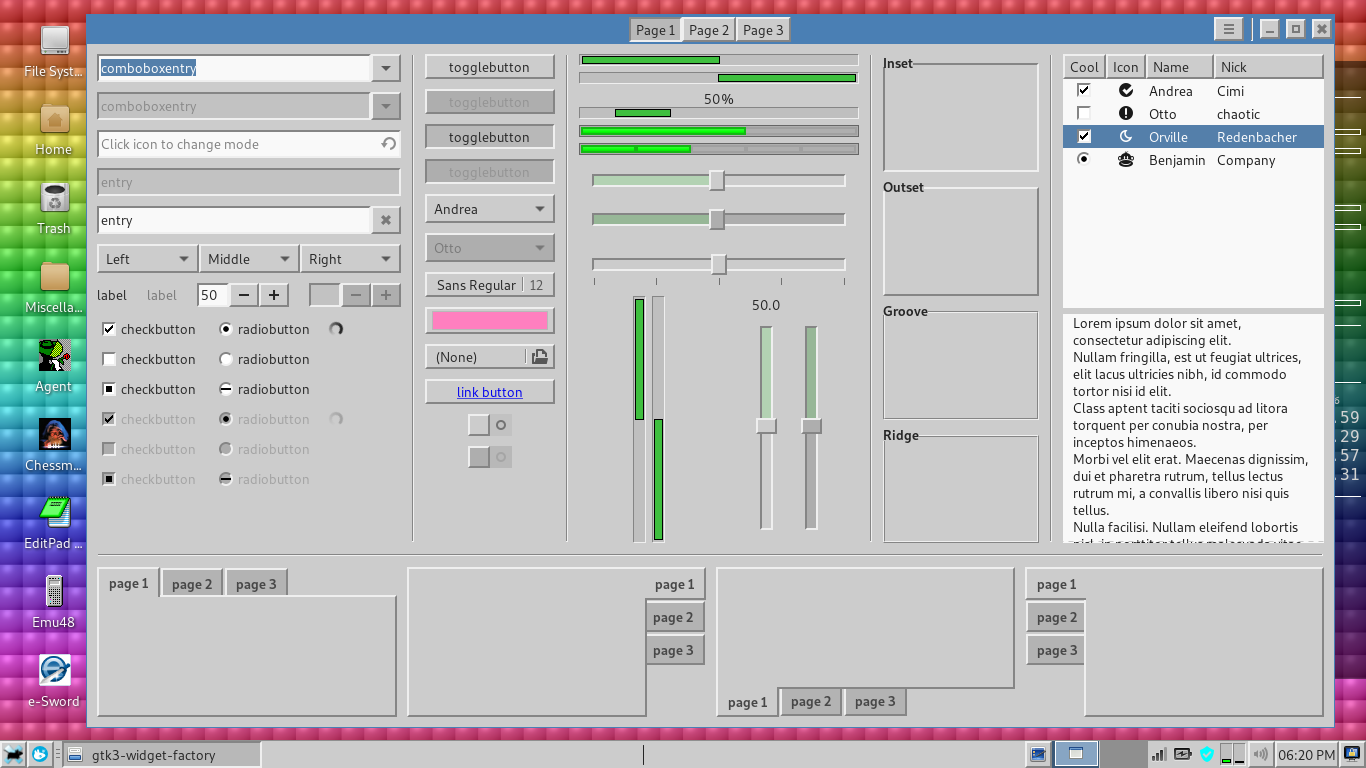
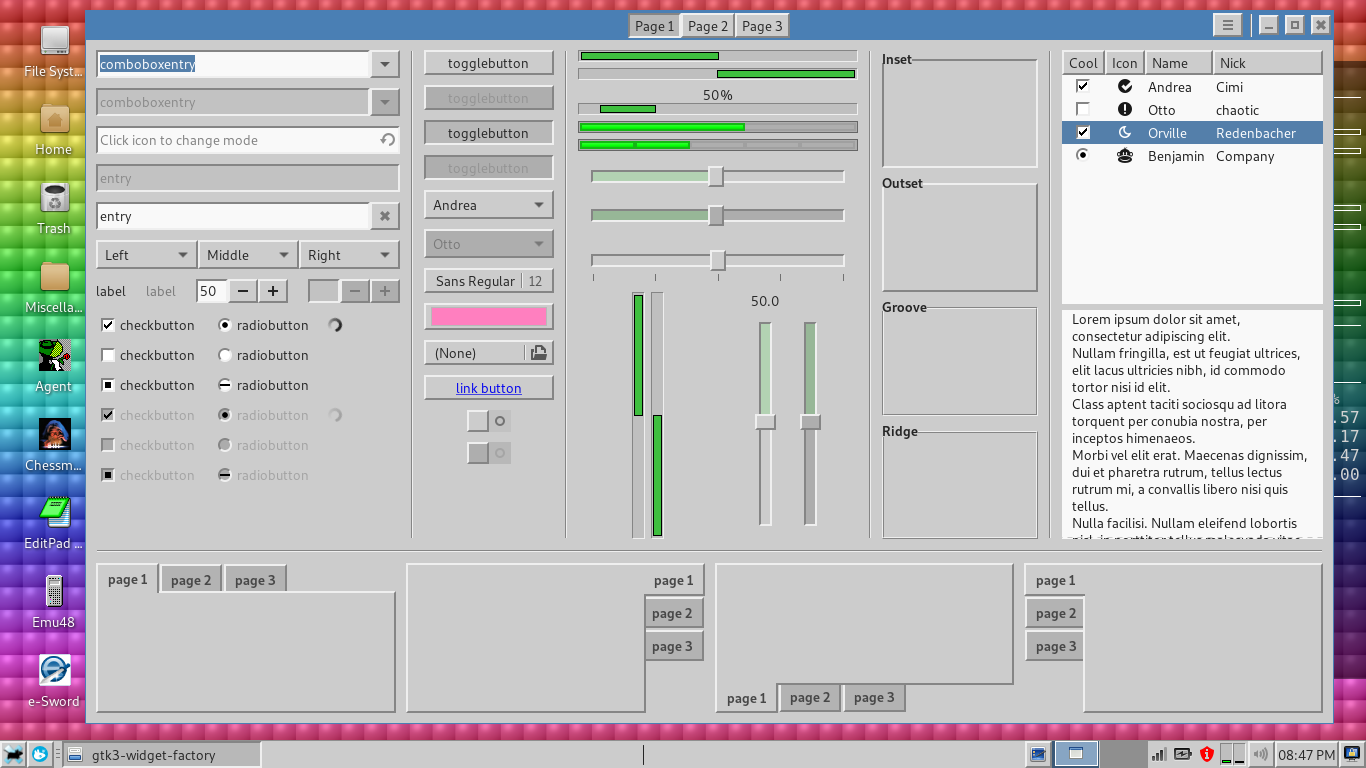
Additional commit

Changed region(s): [[0.0615, 0.0, 1.0, 0.875], [0.0615, 0.875, 0.9839, 1.0], [0.5534, 0.5312, 0.6149, 0.5938]]

diff --git a/Computing-Machine/gtk-3.0/gtk.css b/Computing-Machine/gtk-3.0/gtk.css
@@ -28,7 +28,8 @@ color definitions
 @define-color dark_fg_color #050505;
 
 /* border colors */
-@define-color border_color #858585;
+@define-color border_dark #858585;
+@define-color border_light #efefef;
 @define-color focus_color #ffbf00;
 
 /* miscellaneous colors used by GTK+ 3 */
@@ -196,7 +197,7 @@ button {
   border-width: 2px;
   border-radius: 0;
   border-style: outset;
-  border-color: @border_color;
+  border-color: @border_dark;
   background-color: @theme_bg_color;
   color: @theme_fg_color;
 }
@@ -416,7 +417,7 @@ entry {
   border-width: 2px;
   border-radius: 0;
   border-style: inset;
-  border-color: @border_color;
+  border-color: @border_dark;
   background-color: @theme_base_color;
   color: @theme_fg_color;
 }
@@ -490,7 +491,7 @@ frame
 frame > border {
   border-width: 2px;
   border-style: groove;
-  border-color: @border_color;
+  border-color: @border_dark;
   border-radius: 0;
   box-shadow: none;
 }
@@ -762,7 +763,7 @@ menu {
   border-width: 2px;
   border-radius: 0;
   border-style: outset;
-  border-color: @border_color;
+  border-color: @border_dark;
   background-color: @menu_bg_color;
   color: @menu_fg_color;
 }
@@ -952,12 +953,16 @@ modelbutton:selected {
 notebook
 **********
 */
+notebook {
+  background-color: @theme_bg_color;
+}
+
 /* the color #000000 is displayed for some tabbed pages when 'background-color:' other than 'background-color: none;' is used: */
 notebook.frame > stack,
 notebook > stack:not(:only-child) {
   border-radius: 0;
   padding: 0;
-  border-color: @border_color;
+  border-color: @border_dark;
   border-width: 2px;
   border-style: outset;
 }
@@ -973,7 +978,7 @@ notebook tab {
   margin: 1px;
   border-radius: 0;
   border-style: outset;
-  border-color: @border_color;
+  border-color: @border_dark;
   background-color: shade(@theme_bg_color, 0.875);
   color: shade(@theme_bg_color, 0.35);
 }
@@ -1104,28 +1109,12 @@ notebook > header > tabs > arrow:disabled {
 
 /*
 **********
-pane separator
-**********
-*/
-paned > separator {
-  min-width: 1px;
-  min-height: 1px;
-  padding: 0;
-  background: @theme_selected_bg_color;
-}
-
-paned .sidebar {
-  border: none;
-}
-
-/*
-**********
 progressbar
 **********
 */
 progressbar trough {
   background-color: #bfbfbf;
-  border-color: @border_color;
+  border-color: @border_dark;
   border-width: 1px;
   border-style: inset;
   padding: 2px;
@@ -1188,7 +1177,7 @@ scale trough {
   border-width: 2px;
   border-radius: 0;
   border-style: inset;
-  border-color: @border_color;
+  border-color: @border_dark;
   background-color: transparent; /* dishevels the scale troughs of XFCE's 'xfce4-terminal --preferences' "Position" section under the "Drop-down" tab if a color other than 'transparent' is used */
   color: @theme_fg_color;
 }
@@ -1239,7 +1228,7 @@ scale slider {
   border-width: 2px;
   border-radius: 0;
   border-style: outset;
-  border-color: @border_color;
+  border-color: @border_dark;
   background-color: @theme_bg_color;
 }
 
@@ -1294,7 +1283,7 @@ scrollbar slider {
   border-width: 2px;
   border-radius: 0;
   border-style: outset;
-  border-color: @border_color;
+  border-color: @border_dark;
   background-color: @theme_bg_color;
   color: @theme_fg_color;
 }
@@ -1333,16 +1322,40 @@ treeview ~ scrollbar.vertical {
 
 /*
 **********
-separator
+separators
 **********
 */
-separator {
+separator.horizontal {
   margin: 1px;
-  border-radius: 0;
-  border-right-width: 2px;
-  border-bottom-width: 2px;
-  border-style: groove;
-  border-color: @border_color;
+  padding: 0;
+  border-top: 1px solid @border_dark;
+  border-bottom: 1px solid @border_light;
+}
+
+separator.vertical {
+  margin: 1px;
+  padding: 0;
+  border-left: 1px solid @border_dark;
+  border-right: 1px solid @border_light;
+}
+
+menu separator {
+  margin: 1px;
+  padding: 0;
+  border-top: 1px solid @border_dark;
+  border-bottom: 1px solid @border_light;
+}
+
+/* x-bar separator */
+toolbar separator {
+  margin: 3px;
+  padding: 0;
+  border-left: 1px solid @border_dark;
+  border-right: 1px solid @border_light;
+}
+
+/* titlebutton separator */
+.titlebar separator.titlebutton {
 }
 
 /* button separator */
@@ -1350,13 +1363,19 @@ button separator {
   margin: 1px;
 }
 
-/* x-bar separator */
-toolbar separator {
-  margin: 3px;
+paned > separator {
+  min-width: 2px;
+  min-height: 2px;
+  -gtk-icon-source: none;
+  border-style: none;
+  background-color: transparent;
+  background-image: image(mix(@theme_selected_bg_color, #bfbfbf, 0.25));
 }
 
-/* titlebutton separator */
-.titlebar separator.titlebutton {
+paned.horizontal > separator {
+}
+
+paned.vertical > separator {
 }
 
 /*
@@ -1407,7 +1426,7 @@ spinbutton
 **********
 */
 spinbutton:disabled {
-  color: mix(@theme_text_color, @theme_base_color, 0.7);
+  color: mix(@theme_text_color, @theme_base_color, 0.5);
 }
 
 spinbutton entry {
@@ -1500,7 +1519,7 @@ switch slider {
   border-width: 2px;
   border-radius: 0;
   border-style: outset;
-  border-color: @border_color;
+  border-color: @border_dark;
   background-color: @theme_bg_color;
   color: @theme_fg_color;
 }

diff --git a/README.md b/README.md
@@ -10,9 +10,9 @@ The Conky system-monitor setup depicted below is available here: https://github.
 
 ⁂
 
-Changes for version 13.0:
+Changes for version 14.0:
 
-I completely reworked the GTK+ 3 portion of the theme. Now it's far more correspondent to classic desktop environments. For example, now the outset borders of the tabs go all the way around their tabbed pages; it now uses grooved separators; etc. The button, tab and entry borders have also been overhauled, which now use GTK+ 3's built-in CSS outset/inset borders, instead of trying to create GTK+ 2-reminiscent borders for these elements (as was attempted earlier), which created bad-looking border-corners, and which would have made attempting to create outset tabbed pages connected to their tabs a nightmare. This also simplifies the code.
+I revised some of the colors for the GTK+ 2 portion of the theme to better match the new and improved GTK+ 3 portion. I fixed some issues with separators in the GTK+ 3 portion, in addition to other fixes. Now every program that I've so far thrown at it looks pretty.
 
 ![Computing-Machine-GTK-2.png](https://raw.githubusercontent.com/Jamie-Michelle/Computing-Machine/master/Computing-Machine-GTK-2.png)
 
